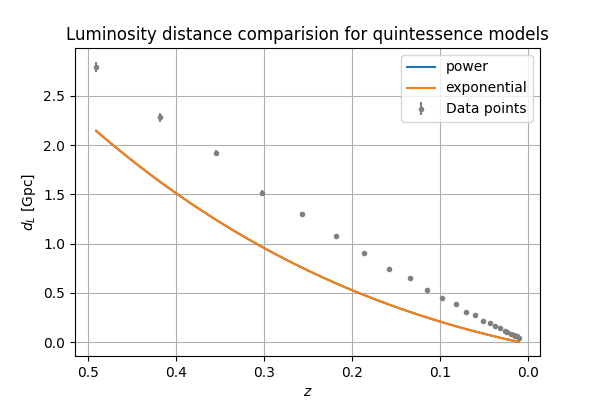
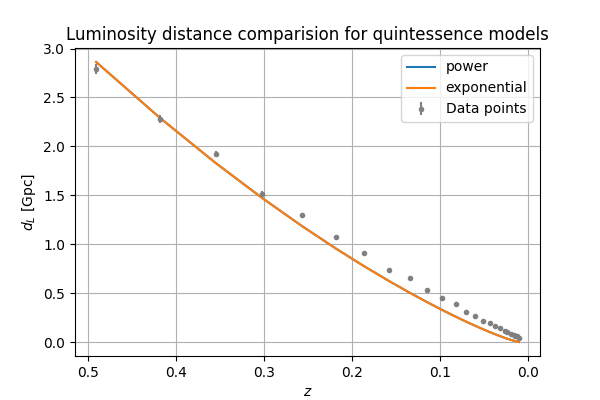
parametrized z-array to improve prob13

diff --git a/Projects/Project 1/scripts/problem9.py b/Projects/Project 1/scripts/problem9.py
@@ -76,7 +76,11 @@ def ode_system(N: np.ndarray, X: np.ndarray, V: str) -> list[float]:
 
 
 def solve_ode_system(
-    V: str, N_i: float, N_f: float, n_points: int = int(1e6)
+    V: str,
+    N_i: float = None,
+    N_f: float = None,
+    n_points: int = int(1e6),
+    z: np.ndarray = None,
 ) -> tuple[np.ndarray, np.ndarray]:
     """Solves the ode system of the equations of motion for x1, x2, x3, and lambda
 
@@ -85,6 +89,7 @@ def solve_ode_system(
         N_i: the characteristic initial time
         N_f: the characteristic stop time
         n_points: the number of points in the time array
+        z: optionally give the redshift array instead of start and stop time
 
     returns:
         the time array and the solution array
@@ -105,24 +110,38 @@ def solve_ode_system(
         raise ValueError("V-string value not recognized")
 
     tol = 1e-8
-    sol = solve_ivp(
-        ode_system,
-        [N_i, N_f],
-        [x1_i, x2_i, x3_i, lmbda_i],
-        args=(V,),
-        rtol=tol,
-        atol=tol,
-        t_eval=np.linspace(N_i, N_f, n_points),
-    )
+
+    if z is None:
+        sol = solve_ivp(
+            ode_system,
+            [N_i, N_f],
+            [x1_i, x2_i, x3_i, lmbda_i],
+            args=(V,),
+            rtol=tol,
+            atol=tol,
+            t_eval=np.linspace(N_i, N_f, n_points),
+        )
+    else:
+        N = np.flip(np.log(1 / (1 + z)))
+        sol = solve_ivp(
+            ode_system,
+            [N[0], N[-1]],
+            [x1_i, x2_i, x3_i, lmbda_i],
+            args=(V,),
+            rtol=tol,
+            atol=tol,
+            t_eval=N,
+        )
 
     return sol.t, sol.y
 
 
 def density_parameters(
     V: str,
-    N_i: float,
-    N_f: float,
+    N_i: float = None,
+    N_f: float = None,
     n_points: int = int(1e6),
+    z: np.ndarray = None,
 ) -> tuple[np.ndarray, np.ndarray, np.ndarray, np.ndarray]:
     """Returns the characteristic density parameters (Omega_i) for matter, radiation,
     and the quintessence field as functions of the redshift
@@ -131,12 +150,17 @@ def density_parameters(
         V: the potential function in ["power", "exponential"]
         N_i: the characteristic initial time
         N_f: the characteristic stop time
+        z: optionally give the redshift array instead of start and stop time
 
     returns:
         the redshift array and the density parameters arrays
     """
 
-    N, y = solve_ode_system(V, N_i, N_f, n_points)
+    if z is None:
+        N, y = solve_ode_system(V, N_i, N_f, n_points)
+
+    else:
+        N, y = solve_ode_system(V, z=z)
     z = np.exp(-N) - 1  # convert time x-axis to the redshift z
 
     x1, x2, x3, _ = y
@@ -212,7 +236,11 @@ def plot_density_parameters(
 
 
 def eos_parameter(
-    V: str, N_i: float, N_f: float, n_points: int = int(1e6)
+    V: str,
+    N_i: float = None,
+    N_f: float = None,
+    n_points: int = int(1e6),
+    z: np.ndarray = None,
 ) -> tuple[np.ndarray, np.ndarray]:
     """Returns the quintessence field equation of state parameter omega_phi as
     a function of the redshift
@@ -222,13 +250,18 @@ def eos_parameter(
         N_i: the characteristic initial time
         N_f: the characteristic stop time
         n_points: the number of points in the time array
+        z: optionally give the redshift array instead of start and stop time
 
     returns:
         the redshift array and the eos parameter array
     """
 
-    N, y = solve_ode_system(V, N_i, N_f, n_points)
-    z = np.exp(-N) - 1  # convert time x-axis to the redshift z
+    if z is None:
+        N, y = solve_ode_system(V, N_i, N_f, n_points)
+        z = np.exp(-N) - 1  # convert time x-axis to the redshift z
+
+    else:
+        N, y = solve_ode_system(V, z=z)
 
     x1, x2, _, _ = y
 

diff --git a/Projects/Project 1/scripts/problem12.py b/Projects/Project 1/scripts/problem12.py
@@ -8,7 +8,11 @@ from problem10 import hubble_parameter_quintessence
 
 
 def lumonisity_integrand_quintessence(
-    V: str, N_i: float, N_f: float, n_points: int = int(1e6)
+    V: str,
+    N_i: float = None,
+    N_f: float = None,
+    n_points: int = int(1e6),
+    z: np.ndarray = None,
 ) -> tuple[np.ndarray, np.ndarray]:
     """
     Represents the integral over z of the dimensionless luminosity distance (eq. S)
@@ -19,19 +23,28 @@ def lumonisity_integrand_quintessence(
         N_i: the characteristic initial time
         N_f: the characteristic stop time
         n_points: the number of points to evaluate the integral
+        z: optionally give the redshift array instead of start and stop time
 
     returns:
         z: The redshift array
         I: The integrand values array
     """
 
-    z, H = hubble_parameter_quintessence(V, N_i, N_f, n_points)
+    if z is None:
+        z, H = hubble_parameter_quintessence(V, N_i, N_f, n_points)
+    else:
+        z, H = hubble_parameter_quintessence(V, z=z)
+
     z = np.flip(z)
     return z, 1 / H
 
 
 def luminosity_distance_quintessence(
-    V: str, N_i: float, N_f: float, n_points: int = int(1e6)
+    V: str,
+    N_i: float = None,
+    N_f: float = None,
+    n_points: int = int(1e6),
+    z: np.ndarray = None,
 ) -> tuple[np.ndarray, np.ndarray]:
     """
     Calculate the dimensionless luminosity distance H_0 d_L/c for the quintessence model
@@ -42,12 +55,16 @@ def luminosity_distance_quintessence(
         N_i: the characteristic initial time
         N_f: the characteristic stop time
         n_points: the number of points to evaluate the integral
+        z: optionally give the redshift array instead of start and stop time
 
     returns:
         z: The redshift array
         d: The dimensionless luminosity distances array
     """
-    z, I = lumonisity_integrand_quintessence(V, N_i, N_f, n_points)
+    if z is None:
+        z, I = lumonisity_integrand_quintessence(V, N_i, N_f, n_points)
+    else:
+        z, I = lumonisity_integrand_quintessence(V, z=z)
 
     return z, (1 + z) * cumulative_trapezoid(I, z, initial=0)
 

diff --git a/Projects/Project 1/scripts/problem10.py b/Projects/Project 1/scripts/problem10.py
@@ -20,7 +20,11 @@ def eos_integrand(omega_phi: float) -> float:
 
 
 def hubble_parameter_quintessence(
-    V: str, N_i: float, N_f: float, n_points: int = int(1e6)
+    V: str,
+    N_i: float = None,
+    N_f: float = None,
+    n_points: int = int(1e6),
+    z: np.ndarray = None,
 ) -> tuple[np.ndarray, np.ndarray]:
     """Characteristic Hubble parameter H/H_0 as a function of the redshift z (eq. 7)
     for the quintessence model, using a given potential function name
@@ -30,23 +34,31 @@ def hubble_parameter_quintessence(
         N_i: the characteristic initial time
         N_f: the characteristic stop time
         n_points: the number of points to evaluate the integral
+        z: optionally give the redshift array instead of start and stop time
 
     returns:
         z: the redshift z
         H: the values of H/H_0 for each z from the z-interval
     """
-    # Density parameters
-    z, Omega_m, Omega_r, Omega_phi = density_parameters(V, N_i, N_f, n_points)
+    if z is None:
+        # Density parameters
+        z, Omega_m, Omega_r, Omega_phi = density_parameters(V, N_i, N_f, n_points)
+
+        # Eos parameter
+        omega_phi = eos_parameter(V, N_i, N_f, n_points)[-1]
+    else:
+        # Density parameters
+        z, Omega_m, Omega_r, Omega_phi = density_parameters(V, z=z)
+
+        # Eos parameter
+        omega_phi = eos_parameter(V, z=z)[-1]
+
     Omega_m0 = Omega_m[-1]
     Omega_r0 = Omega_r[-1]
     Omega_phi0 = Omega_phi[-1]
 
-    # Eos parameter
-    omega_phi = eos_parameter(V, N_i, N_f, n_points)[-1]
-
     # Convert redshift z to characteristic time N
     N = np.log(1 / (1 + z))
-
 
     # Calculate the characteristic Hubble parameter
     H = np.sqrt(

diff --git a/Projects/Project 1/scripts/problem13.py b/Projects/Project 1/scripts/problem13.py
@@ -14,6 +14,7 @@ DATA_PATH = os.path.join(
 H_0 = 70e6  # Hubble constant [m/(s Gpc)]
 c = 3e8  # speed of light [m/s]
 
+
 def chi_squared(prediction: np.ndarray, data: np.ndarray, err: np.ndarray) -> float:
     """
     Calculate the chi-squared value for a model prediction given the data and the errors
@@ -59,13 +60,11 @@ def plot_luminosity_distances(
 
     # Load data
     z, d_data, d_err = np.loadtxt(DATA_PATH, skiprows=5, unpack=True)  # [-, Gpc, Gpc]
-    N_i = np.log(1 / (1 + z[-1]))
-    N_f = np.log(1 / (1 + z[0]))
 
     # Plot the two quintessence models
     for V in ["power", "exponential"]:
-        zi, d_model = luminosity_distance_quintessence(V, N_i, N_f)
-        plt.plot(zi, d_model * c/H_0, label=V)  # convert to Gpc when plotting
+        d_model = luminosity_distance_quintessence(V, z=z)[-1]
+        plt.plot(z, d_model * c / H_0, label=V)  # convert to Gpc when plotting
 
     # Plot the data
     plt.errorbar(z, d_data, yerr=d_err, fmt=".", label="Data points", color="gray")
@@ -92,13 +91,9 @@ def print_chi_squared_values() -> None:
     # Load data
     z, d_data, d_err = np.loadtxt(DATA_PATH, skiprows=5, unpack=True)  # [-, Gpc, Gpc]
 
-    # Characteristic time interval
-    N_i = np.log(1 / (z[-1] + 1))
-    N_f = np.log(1 / (z[0] + 1))
-
     # Model predictions
     for V in ["power", "exponential"]:
-        d_model = luminosity_distance_quintessence(V, N_i, N_f, n_points=len(z))[-1]
+        d_model = luminosity_distance_quintessence(V, z=z)[-1]
         d_model *= c / H_0  # convert to Gpc
         print(
             f"Chi-squared value for {V}-potential: {chi_squared(d_model, d_data, d_err)}"
